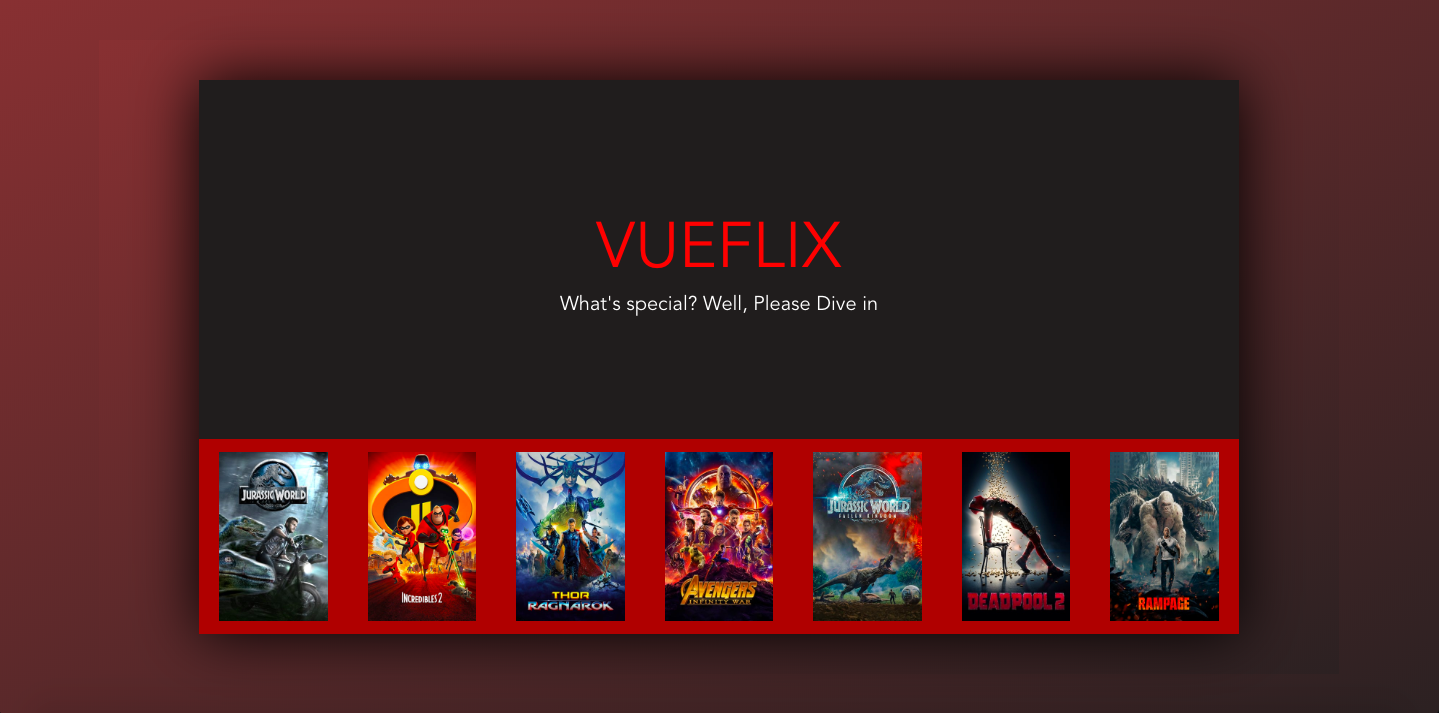
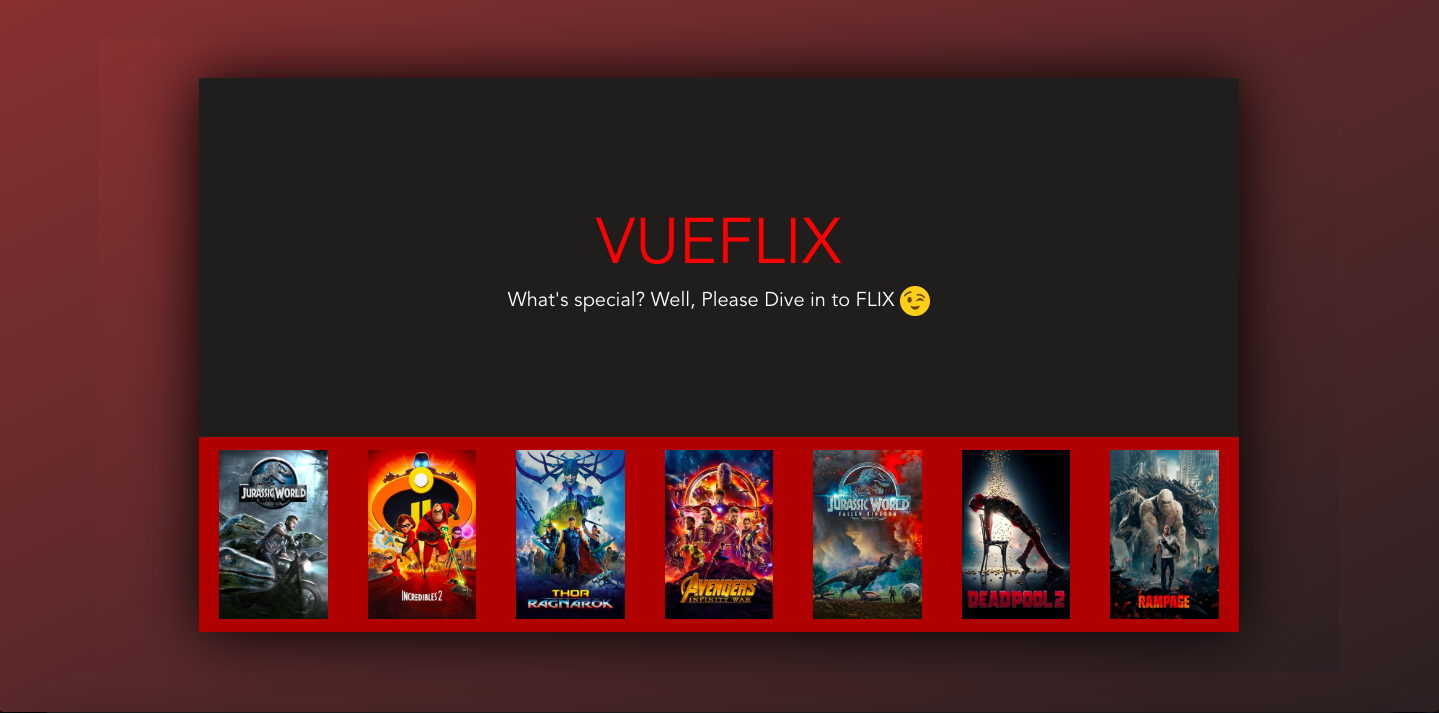
Updated screenshot and added emoji support for tagline

diff --git a/src/components/Home.vue b/src/components/Home.vue
@@ -2,7 +2,7 @@
   <div class="col">
       <div class="header" v-if="movieId==''">
           <span style="color:#FF0000;font-size:64px;">VUEFLIX</span>
-          <span style="color:#fff; font-size:20px;">{{tagline}}</span>
+          <span style="color:#fff; font-size:20px;" v-html="tagline"></span>
       </div>
       <films class= "header" v-else :movie="movies[movieId]" :play="play" @togglePlay="play=!play" @toggleFavorite="toggleFavorite" @goHome = "movieId=''"></films>
       <section id="footer">
@@ -31,7 +31,7 @@ export default {
       movieId: "",
       play:false,
       loading: true,
-      tagline: "What's special? Well, Please Dive in",
+      tagline: "What's special? Well, Please Dive in to FLIX <i class='em-svg em-wink'></i>",
       movies: {},
   }),
   

diff --git a/index.html b/index.html
@@ -4,6 +4,7 @@
     <meta charset="utf-8">
     <meta name="viewport" content="width=device-width,initial-scale=1.0">
     <link href="https://fonts.googleapis.com/icon?family=Material+Icons" rel="stylesheet">
+    <link href="https://afeld.github.io/emoji-css/emoji.css" rel="stylesheet">
     <link rel="stylesheet" href="https://use.fontawesome.com/releases/v5.1.0/css/all.css" integrity="sha384-lKuwvrZot6UHsBSfcMvOkWwlCMgc0TaWr+30HWe3a4ltaBwTZhyTEggF5tJv8tbt"
       crossorigin="anonymous">
     <title>vueflix</title>
